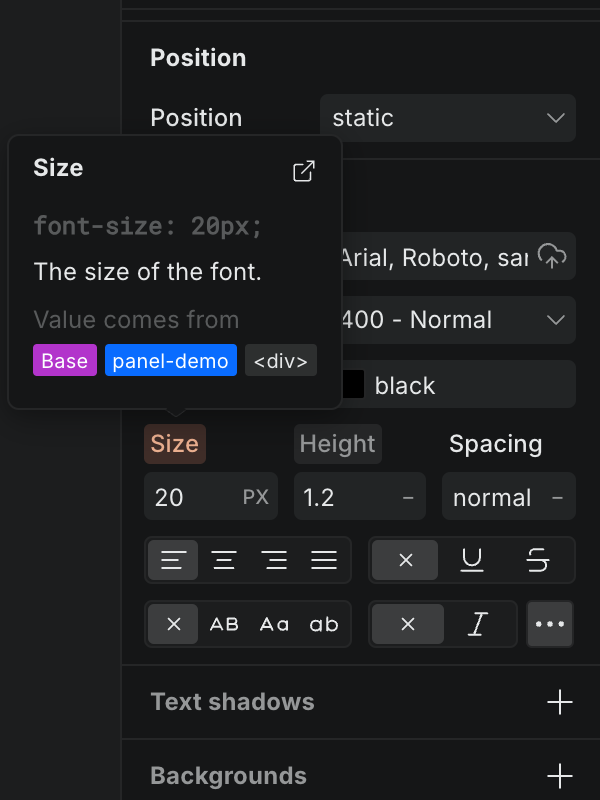
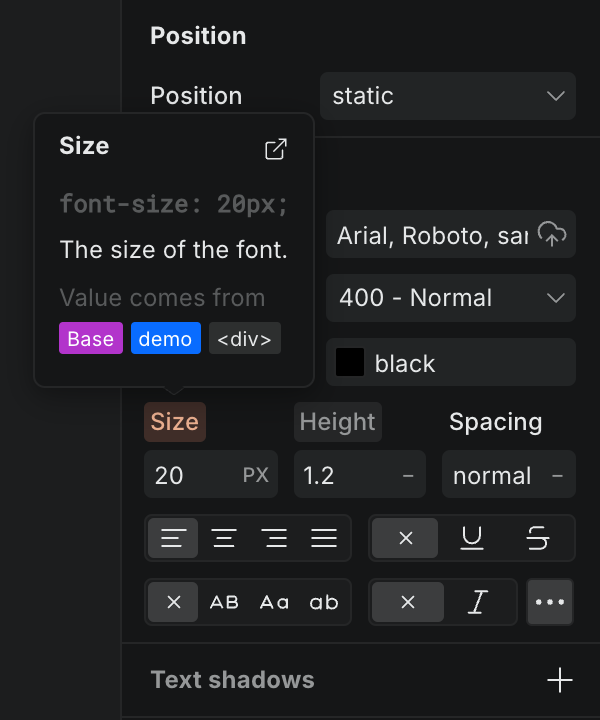
Refresh token states and Vimeo spinner screenshots

diff --git a/docs/university/foundations/design-tokens.md b/docs/university/foundations/design-tokens.md
@@ -73,7 +73,7 @@ You can style your site using Local or Tokens like this:
 
 1. Select an instance. The **Style sources** field at the top of the Style panel shows its Local styles and Tokens.
 
-   <img src="../../.gitbook/assets/style-sources.png" alt="Style sources field showing the Local source and applied Tokens" data-size="original">
+   <picture><source srcset="../../.gitbook/assets/style-sources-dark.png" media="(prefers-color-scheme: dark)"><img src="../../.gitbook/assets/style-sources-light.png" alt="Style sources strip showing demo and accent Tokens beside the Local source" width="240"></picture>
 
 2. To create a Token, select the Style sources field, enter a name, and press Enter.
 
@@ -84,7 +84,7 @@ You can style your site using Local or Tokens like this:
 
 3. Select the source you want to edit. The active source is highlighted, and new styles are written to that source.
 
-   <img src="../../.gitbook/assets/tokens-added.png" alt="Style sources field with several Tokens and one active Token" data-size="original">
+   <picture><source srcset="../../.gitbook/assets/tokens-added-dark.png" media="(prefers-color-scheme: dark)"><img src="../../.gitbook/assets/tokens-added-light.png" alt="Style sources strip with accent Token selected for editing" width="240"></picture>
 
 Use the Local source for styles that apply only to the selected instance. You can convert Local styles into a reusable Token later.
 
@@ -95,11 +95,11 @@ Use the Local source for styles that apply only to the selected instance. You ca
 
 Hover a property label to see which breakpoint and style source provides its current value. See [Label colors](anatomy-of-the-webstudio-builder.md#label-colors) for the full reference.
 
-<img src="../../.gitbook/assets/property-label-tooltip.png" alt="Style property tooltip identifying the breakpoint, Token, and instance that provide the value" data-size="original">
+<picture><source srcset="../../.gitbook/assets/property-label-tooltip-dark.png" media="(prefers-color-scheme: dark)"><img src="../../.gitbook/assets/property-label-tooltip-light.png" alt="Style property tooltip identifying the Base breakpoint, demo Token, and div instance" width="300"></picture>
 
 An empty circle means the source has no styles. A dot appears in the Local source after you add a style.
 
-<img src="../../.gitbook/assets/empty-circle.png" alt="Empty circle indicator beside a style source with no styles" data-size="original">
+<picture><source srcset="../../.gitbook/assets/empty-circle-dark.png" media="(prefers-color-scheme: dark)"><img src="../../.gitbook/assets/empty-circle-light.png" alt="Empty circle beside accent Token showing that it has no styles" width="240"></picture>
 
 ## Exporting human-readable classes
 

diff --git a/docs/university/core-components/list.md b/docs/university/core-components/list.md
@@ -19,15 +19,15 @@ The outer container — renders as `<ul>` (unordered) or `<ol>` (ordered) depend
 
 ### List Item
 
-The individual item inside a List — renders as `<li>`. Existing List instances start with three List Item instances. Duplicate an existing one with **Cmd+D** / **Ctrl+D** to add more.
+The individual item inside a List — renders as `<li>`. Add List Item children to a legacy List as needed. Duplicate an existing item with **Cmd+D** / **Ctrl+D** to add more.
 
 List Items can contain any component — text, images, links, buttons — making them suitable for rich, interactive lists beyond simple bullet points.
 
 ### How to use the List Component
 
-The legacy List component is hidden from the default Components picker. For a new list, use the **Ordered List** or **Unordered List** template. Existing List instances can still be edited and contain three List Item instances by default.
+The legacy List component is hidden from the default Components picker. For a new list, use the **Ordered List** or **Unordered List** template. Existing List instances can still be edited.
 
-To add more items to a legacy List, duplicate an existing List Item.
+To add more items to a legacy List, add List Item children or duplicate an existing one.
 
 #### Duplicating List Items
 

diff --git a/docs/university/core-components/vimeo-background-video.md b/docs/university/core-components/vimeo-background-video.md
@@ -22,8 +22,9 @@ And done! Now you have a background video on this section of your site.
 
 1. Enable the “Muted” and “Loop” properties for your Vimeo instance to have the background video play in a loop without any sound. \
    ![Vimeo background image optimization step 1](../../.gitbook/assets/vimeo-bg-video-step-6.avif)
-2. You can also hide or remove the Spinner on your output video for a more polished result. To hide it, select the Spinner instance from your Vimeo instance, head over to the Settings section and toggle off the “Show” option: \
-   ![Vimeo background image optimization step 2](../../.gitbook/assets/vimeo-bg-video-step-7.avif)
+2. You can also hide or remove the Spinner on your output video for a more polished result. To hide it, select the Spinner instance from your Vimeo instance, head over to the Settings section and toggle off the “Show” option:
+
+   <figure><picture><source srcset="../../.gitbook/assets/vimeo-bg-video-step-7-dark.png" media="(prefers-color-scheme: dark)"><img src="../../.gitbook/assets/vimeo-bg-video-step-7-light.png" alt="Spinner settings with the Show toggle ready to turn off" width="240"></picture></figure>
 
 ## Related
 
